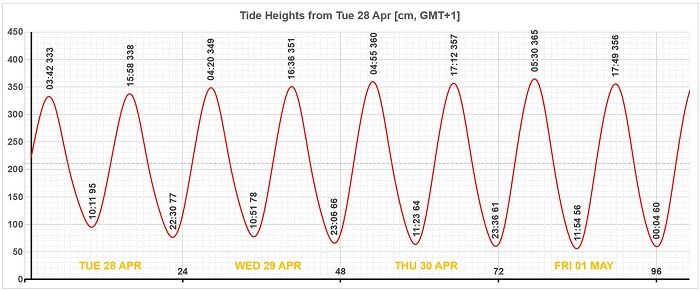
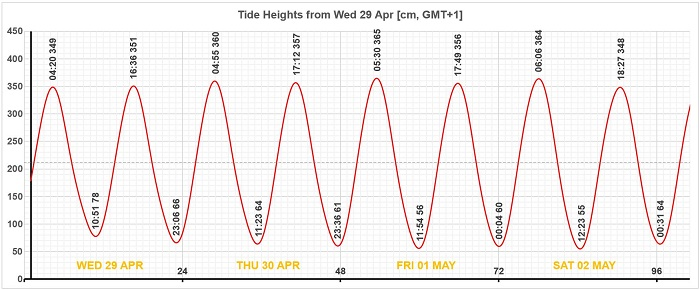
Add files via upload

diff --git a/index.html b/index.html
@@ -161,10 +161,6 @@ dark skies, stellar magnitude, moon, Luna, Mercury, Venus, Mars, Jupiter, Saturn
 							<td id="recent_posts_list" valign="top">
 									<li><b>Predicted Tides at Baltimore Pier<br />(GMT+1) (</b><a href="tides.html">explainer, daily & full-year charts & data</a>)<br /><hr /></li>
 
-Tue 28 Apr 2026  High: 03:42  3.33m<br />
-Tue 28 Apr 2026  Low: 10:11  0.95m<br />
-Tue 28 Apr 2026  High: 15:58  3.38m<br />
-Tue 28 Apr 2026  Low: 22:30  0.77m<br />
 Wed 29 Apr 2026  High: 04:20  3.49m<br />
 Wed 29 Apr 2026  Low: 10:51  0.78m<br />
 Wed 29 Apr 2026  High: 16:36  3.51m<br />
@@ -181,6 +177,10 @@ Sat 2 May 2026  High: 06:06  3.64m<br />
 Sat 2 May 2026  Low: 12:23  0.55m<br />
 Sat 2 May 2026  High: 18:27  3.48m<br />
 Sat 2 May 2026  Low: 00:31  0.64m<br />
+Sun 3 May 2026  High: 06:44  3.58m<br />
+Sun 3 May 2026  Low: 12:52  0.61m<br />
+Sun 3 May 2026  High: 19:06  3.37m<br />
+Sun 3 May 2026  Low: 00:58  0.72m<br />
 
 (** = Full Moon  * = New Moon)
 									<br /><br />